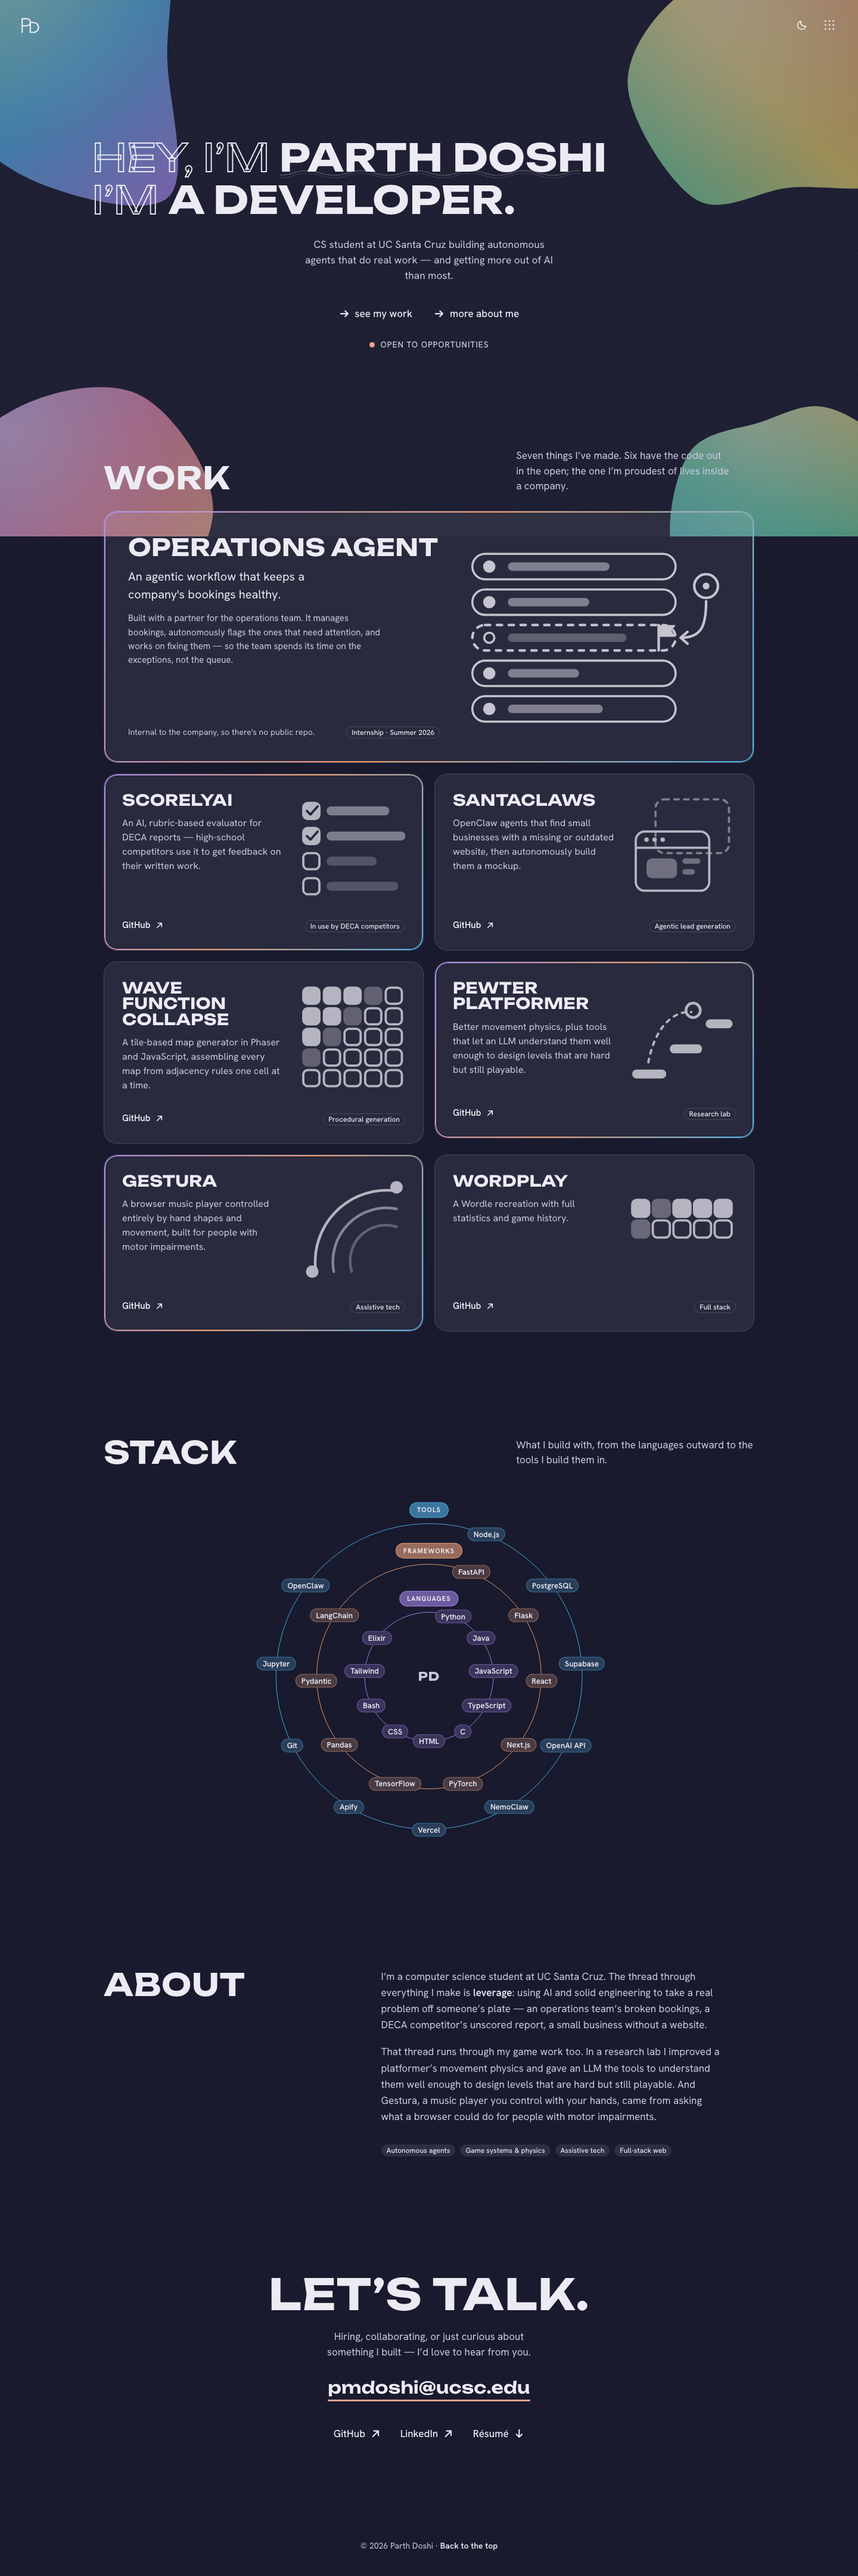
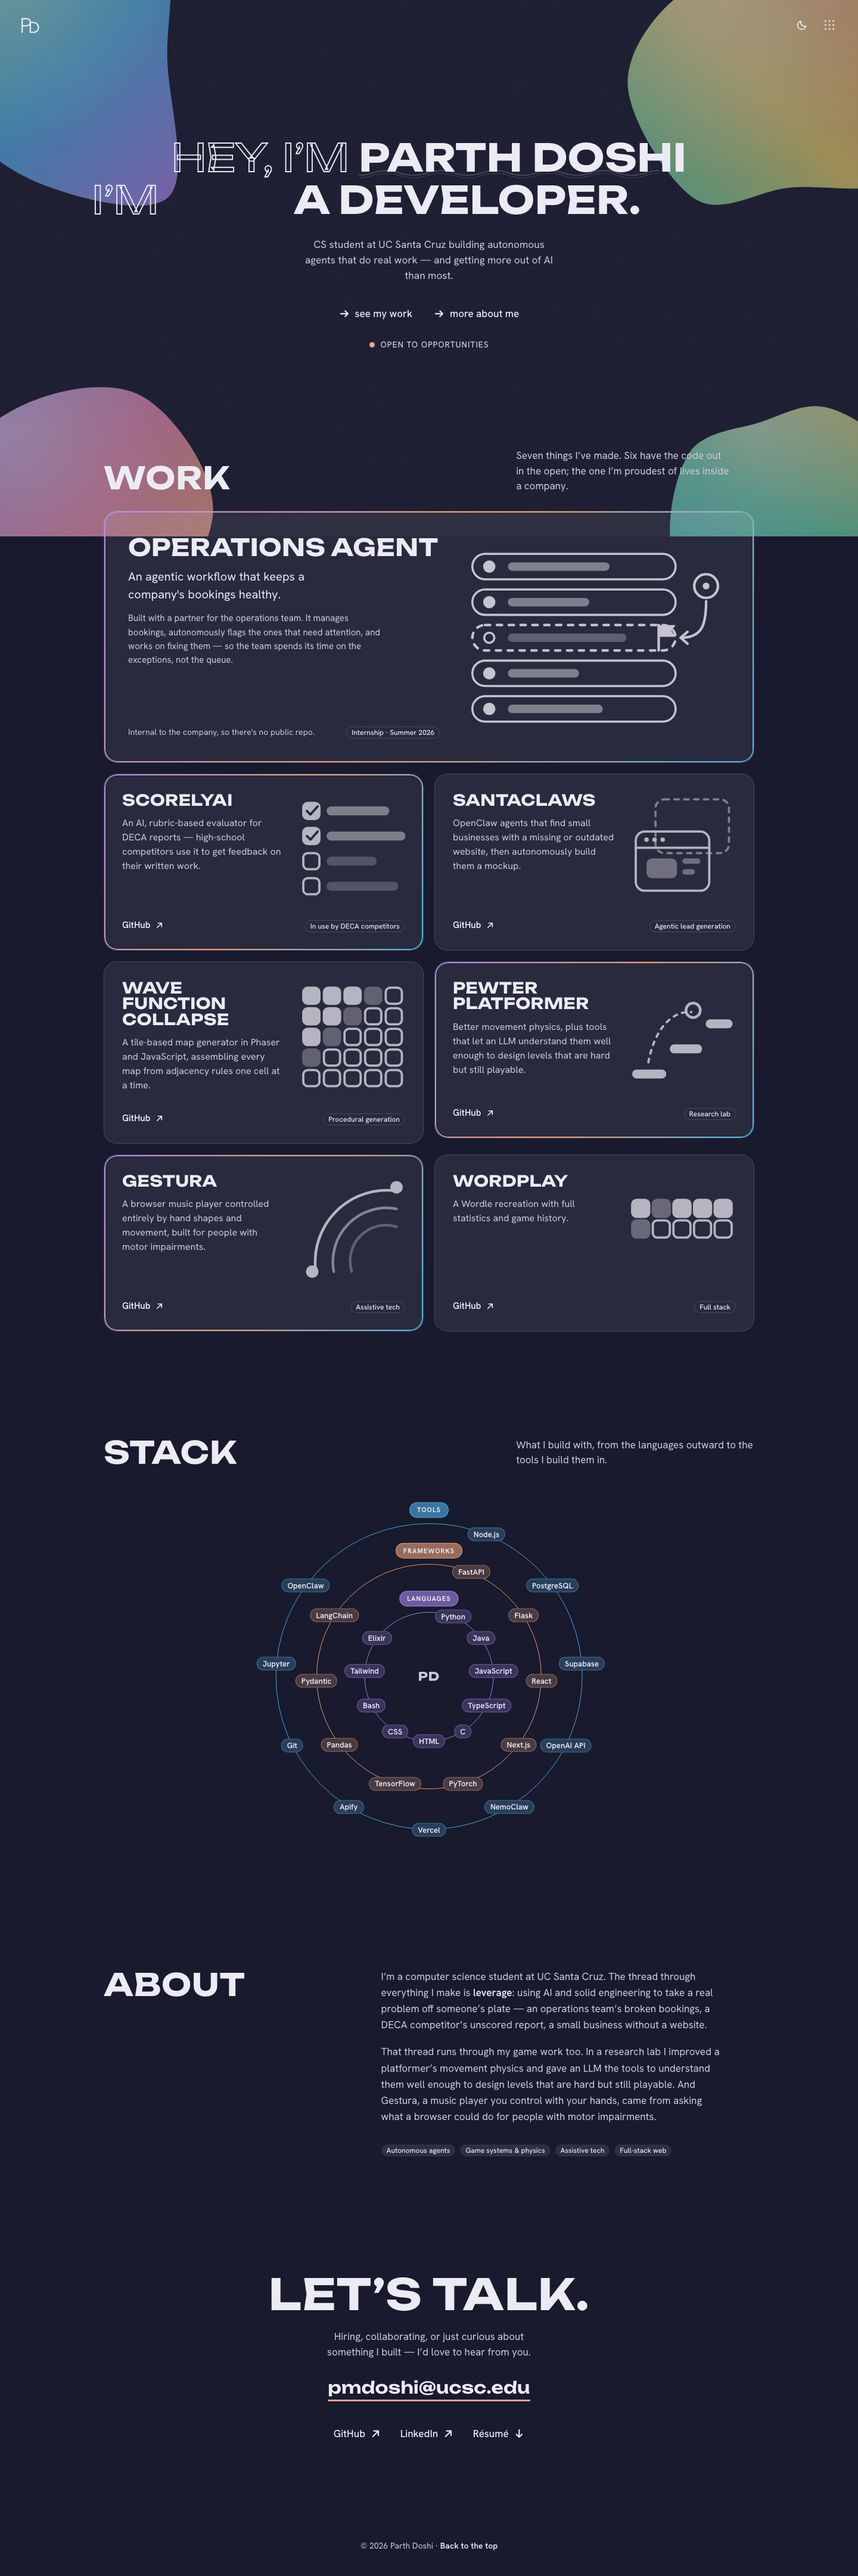
Second fix round: recover the centred hero axis, un-orphan the mobile lead, menu hover contrast, scroll affordance

Changed region(s): [[0.1875, 0.0312, 0.7812, 0.0937]]

diff --git a/app/globals.css b/app/globals.css
@@ -567,12 +567,6 @@ svg {
   transform: scale(0.98);
 }
 
-@media (hover: hover) and (pointer: fine) {
-  .menu__link:hover {
-    color: var(--signal);
-  }
-}
-
 .menu__key {
   font-family: var(--font-body-stack);
   font-size: 0.75rem;
@@ -686,21 +680,22 @@ svg {
   position: relative;
   min-height: min(100svh, 720px);
   display: grid;
-  place-content: center;
+  /* An explicit minmax(0, 1fr) column: `place-content: center` left the column
+   * max-content-sized, so `max-width: 100%` on the children measured against
+   * their own content and the headline could overflow the viewport. */
+  grid-template-columns: minmax(0, 1fr);
+  align-content: center;
   justify-items: center;
   text-align: center;
   padding: 150px 24px 56px;
   overflow: clip;
 }
 
-/*
- * The block is centred in the hero, but its lines share a left edge. With the
- * rolling slot fixed to the widest phrase, centring each LINE would hang the
- * short ones visibly left of the name above them.
- */
 .hero__title {
-  display: inline-block;
-  text-align: left;
+  /* The hero centres its grid items rather than stretching them, so without
+   * this the h1 sizes to max-content and nothing inside it has a width to
+   * shrink against — the rolling slot then overflows the viewport. */
+  max-width: 100%;
   font-size: clamp(1.75rem, 5.1vw, 4rem);
   line-height: 1.12;
   letter-spacing: 0.005em;
@@ -770,7 +765,8 @@ svg {
 }
 
 @media (hover: hover) and (pointer: fine) {
-  .link-arrow:hover {
+  .link-arrow:hover,
+  .menu__link:hover {
     color: var(--signal-ink);
   }
   .link-arrow:hover .icon {
@@ -817,6 +813,26 @@ svg {
     font-size: clamp(1.25rem, 5.9vw, 1.875rem);
     line-height: 1.18;
   }
+  /*
+   * Keep the lead and the phrase on one row: as a plain inline sibling of a
+   * full-width slot, "I'm" was orphaned onto a line of its own.
+   */
+  .hero__line--roll {
+    display: flex;
+    /* nowrap on purpose: wrapping pushed the whole slot to its own line
+     * instead of letting it shrink, which is what orphaned "I'm". */
+    flex-wrap: nowrap;
+    align-items: baseline;
+    justify-content: center;
+    column-gap: 0.26em;
+  }
+  .roll {
+    min-width: 0;
+  }
+  /* 0.03em is sub-pixel at phone display sizes; hold a visible floor. */
+  .type-outline {
+    -webkit-text-stroke-width: max(1.1px, 0.03em);
+  }
   /* The longest phrase cannot fit one phone line, so let it wrap rather than
    * be clipped by the hero's overflow. */
   .roll {
@@ -861,8 +877,13 @@ svg {
    ========================================================================== */
 .roll {
   display: inline-grid;
-  /* Phrases start at the same x, so the lead beside them never shifts. */
-  justify-items: start;
+  /*
+   * The slot is a constant width (the longest phrase), so the lead beside it
+   * never moves and the line as a whole stays centred. Each phrase centres
+   * within the slot: the anchor is pinned, the axis holds, and only the space
+   * around a short phrase changes.
+   */
+  justify-items: center;
   vertical-align: baseline;
   overflow: clip;
   padding: 0.14em 0.1em 0.22em;
@@ -1390,7 +1411,28 @@ svg {
 /* The orbit keeps its form on a phone and scrolls inside its own container.
  * Collapsing it into stacked runs would ship the one shape this section
  * exists to avoid. */
+/* Only meaningful where the diagram actually overflows. */
+.orbit__hint {
+  display: none;
+}
+
 @media (max-width: 760px) {
+  .orbit__hint {
+    display: flex;
+    align-items: center;
+    justify-content: center;
+    gap: 8px;
+    margin-top: 14px;
+    font-size: 0.8125rem;
+    font-weight: 600;
+    letter-spacing: 0.06em;
+    text-transform: uppercase;
+    color: var(--ink-2);
+  }
+  .orbit__hint .icon {
+    width: 1.1em;
+    height: 1.1em;
+  }
   .orbit {
     --orbit: 560px;
     margin-top: 4px;

diff --git a/components/Stack.tsx b/components/Stack.tsx
@@ -1,6 +1,7 @@
 import { stack } from "@/data/stack";
 import Reveal from "@/components/Reveal";
 import OrbitScroller from "@/components/OrbitScroller";
+import { ArrowRight } from "@/components/Icon";
 
 /**
  * The stack as an orbit rather than a list: three concentric rings, inner to
@@ -75,6 +76,16 @@ export default function Stack() {
           </div>
         </OrbitScroller>
       </Reveal>
+
+      {/*
+        29 labels cannot be laid out legibly across 390px, so the diagram keeps
+        its size and scrolls. That needs saying out loud — a soft edge mask
+        alone reads as clipping rather than as an invitation.
+      */}
+      <p className="orbit__hint" aria-hidden="true">
+        Swipe the diagram
+        <ArrowRight />
+      </p>
 
       {/* The rings are decorative to a screen reader; this is the real content. */}
       <div className="visually-hidden">
